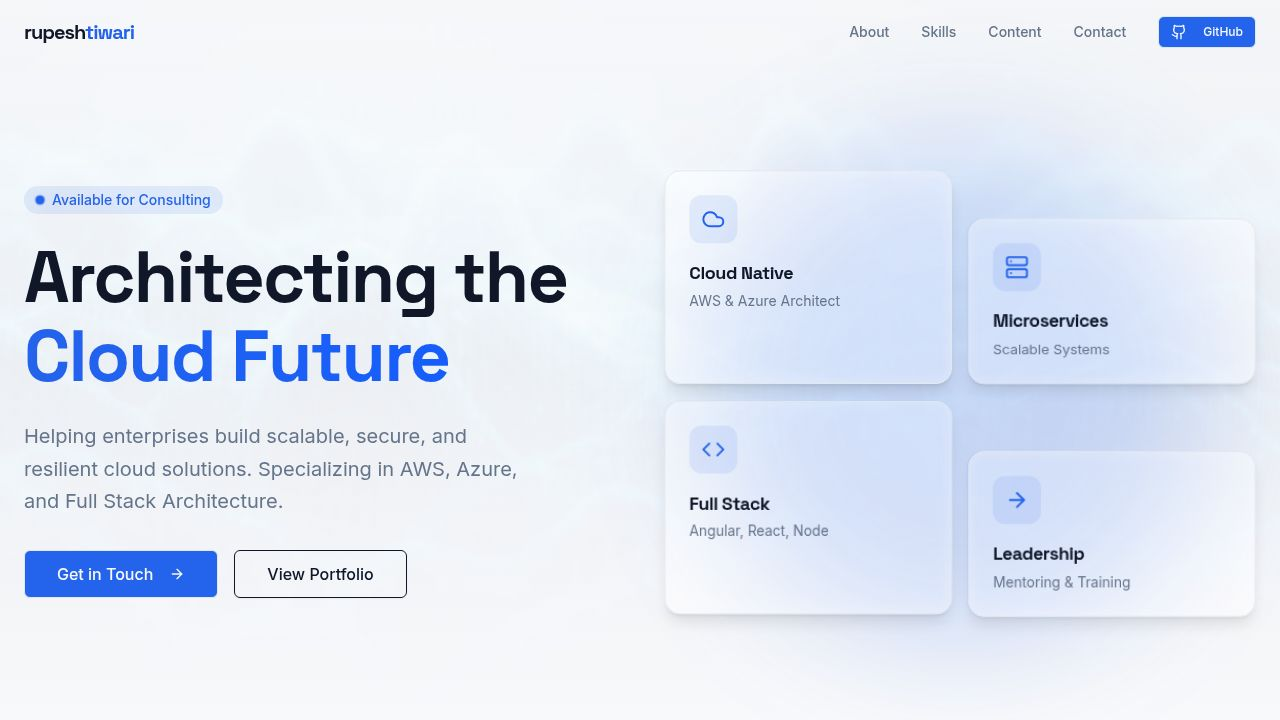
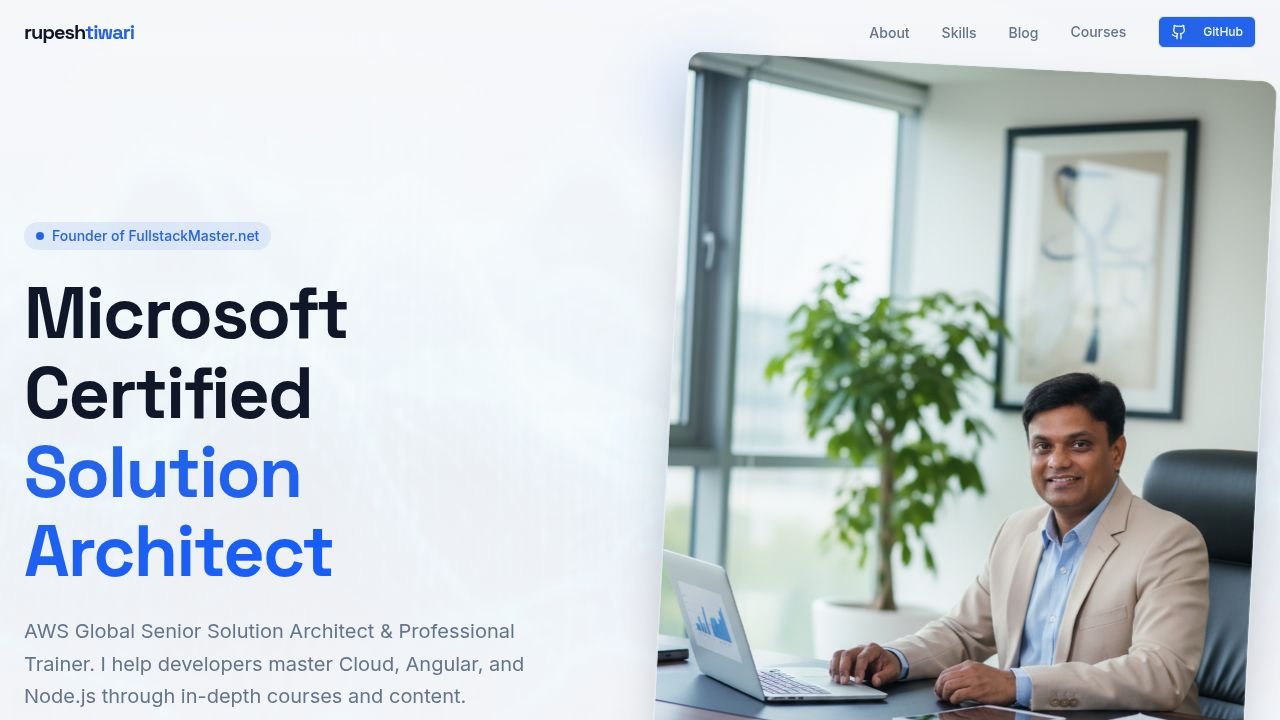
Add personal photo to hero section and refine design elements
Add rupeshImage import to Hero component, update Hero section to display the image, and remove old Card components.

Replit-Commit-Author: Agent
Replit-Commit-Session-Id: b697ffaf-d7ae-4622-821a-0321620efc27
Replit-Commit-Checkpoint-Type: full_checkpoint
Replit-Commit-Event-Id: b38b404f-acc4-4b57-a53f-b29dd55b2f26
Replit-Commit-Screenshot-Url: https://storage.googleapis.com/screenshot-production-us-central1/61a264a3-8011-425a-8774-88c79ad887fa/b697ffaf-d7ae-4622-821a-0321620efc27/SKmtYV4
Replit-Helium-Checkpoint-Created: true

diff --git a/client/src/components/hero.tsx b/client/src/components/hero.tsx
@@ -1,7 +1,8 @@
 import { motion } from "framer-motion";
 import { Button } from "@/components/ui/button";
-import { ArrowRight, Cloud, Server, Code, GraduationCap } from "lucide-react";
+import { ArrowRight } from "lucide-react";
 import heroBg from "@assets/generated_images/abstract_blue_tech_data_wave_background.png";
+import rupeshImage from "@assets/rupesh_on_desk_1765301135195.png";
 
 export default function Hero() {
   return (
@@ -60,34 +61,21 @@ export default function Hero() {
           transition={{ duration: 0.8, delay: 0.2 }}
           className="relative hidden lg:block"
         >
-          <div className="relative z-10 grid grid-cols-2 gap-4">
-            <Card icon={Cloud} title="Cloud Native" desc="AWS & Azure Expert" delay={0.3} />
-            <Card icon={Server} title="Microservices" desc="Scalable Systems" delay={0.4} className="mt-12" />
-            <Card icon={Code} title="Full Stack" desc="Angular & Node.js" delay={0.5} />
-            <Card icon={GraduationCap} title="Training" desc="Fullstack Master" delay={0.6} className="mt-12" />
+          <div className="relative z-10 rounded-2xl overflow-hidden shadow-2xl border border-border/50 rotate-3 hover:rotate-0 transition-transform duration-500">
+             <div className="absolute inset-0 bg-gradient-to-tr from-primary/20 to-transparent mix-blend-overlay z-10" />
+             <img 
+              src={rupeshImage} 
+              alt="Rupesh Tiwari - Senior Solution Architect" 
+              className="w-full h-auto object-cover" 
+             />
           </div>
           
           {/* Decorative elements */}
           <div className="absolute top-1/2 left-1/2 -translate-x-1/2 -translate-y-1/2 w-[500px] h-[500px] bg-primary/20 rounded-full blur-3xl -z-10" />
+          <div className="absolute -bottom-6 -right-6 w-24 h-24 bg-primary/10 rounded-full blur-xl z-0" />
+          <div className="absolute -top-6 -left-6 w-32 h-32 bg-blue-500/10 rounded-full blur-xl z-0" />
         </motion.div>
       </div>
     </section>
-  );
-}
-
-function Card({ icon: Icon, title, desc, delay, className = "" }: any) {
-  return (
-    <motion.div
-      initial={{ opacity: 0, y: 20 }}
-      animate={{ opacity: 1, y: 0 }}
-      transition={{ duration: 0.5, delay }}
-      className={`p-6 rounded-2xl bg-card/50 backdrop-blur-sm border border-border shadow-lg hover:shadow-xl transition-all hover:-translate-y-1 ${className}`}
-    >
-      <div className="w-12 h-12 rounded-xl bg-primary/10 flex items-center justify-center mb-4 text-primary">
-        <Icon className="w-6 h-6" />
-      </div>
-      <h3 className="text-lg font-bold mb-1">{title}</h3>
-      <p className="text-sm text-muted-foreground">{desc}</p>
-    </motion.div>
   );
 }
